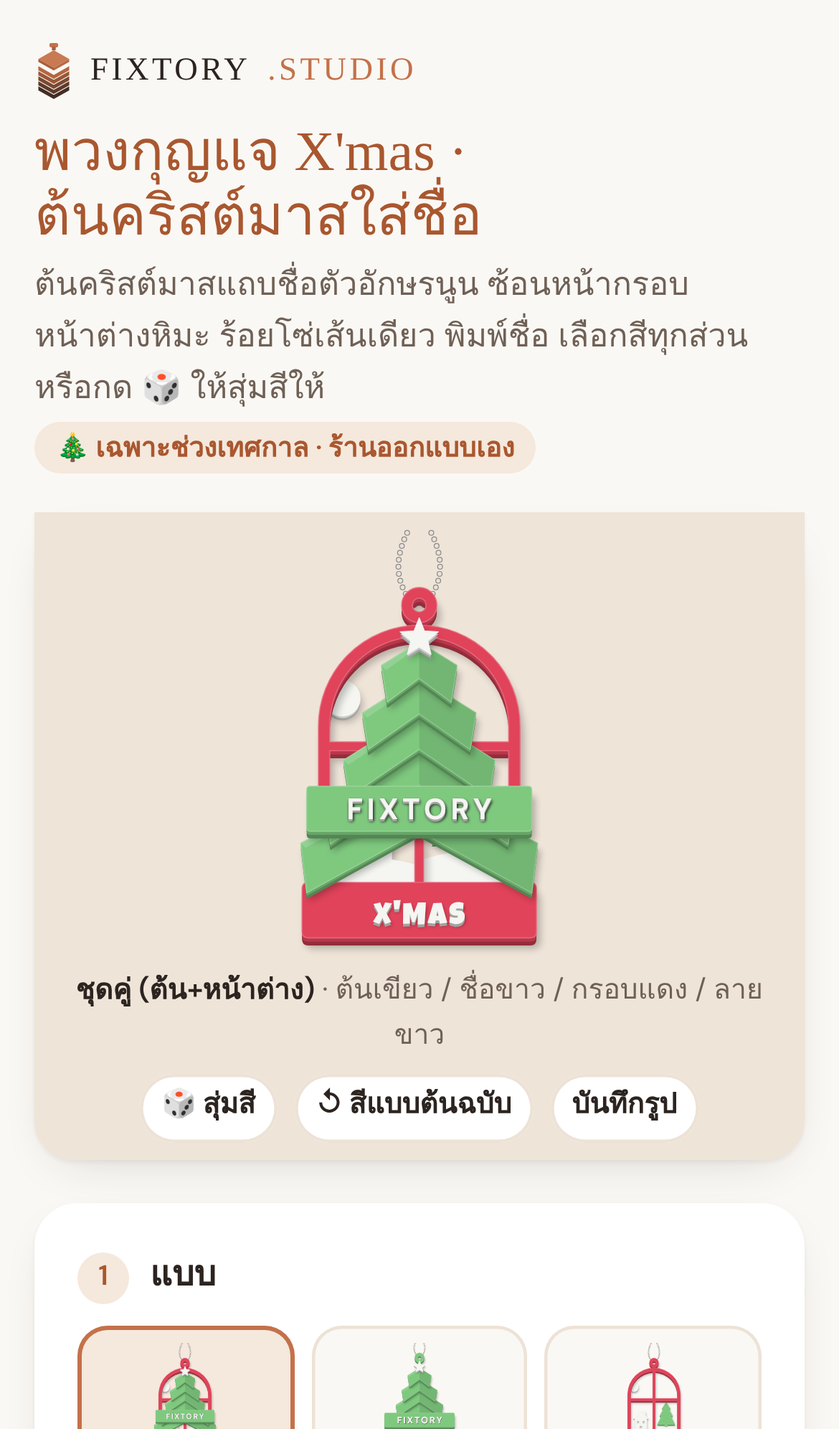
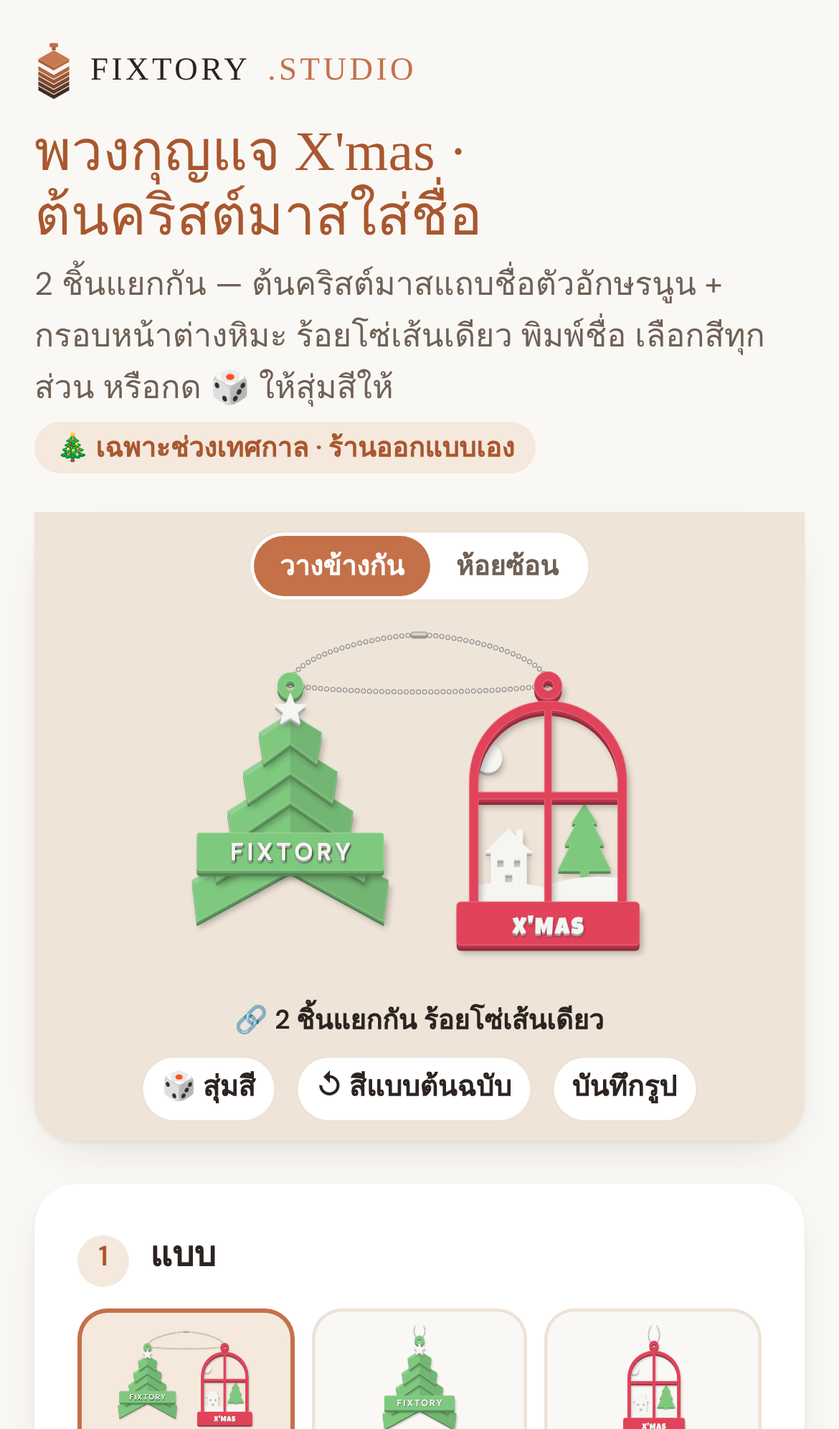
Fixtory Design: พวงกุญแจ X'mas แสดง 2 ชิ้นแยกกัน + สีหน้าต่างแยกจากต้น (xmasorn.html รอบ 2)
- ชุดคู่: พรีวิว "วางข้างกัน" (ต้นซ้าย หน้าต่างขวา ห่วงแยก ร้อยโซ่ไข่ปลาเส้นเดียว) เป็นค่าเริ่มต้น + ปุ่มสลับ "ห้อยซ้อน" (ต้นอยู่หน้า เห็นห่วง 2 อันบนโซ่แบบ cat/xmasorn-1.jpg)
- เพิ่มสี "ต้นไม้เล็กในหน้าต่าง" แยกจากสีต้น (ค่าเริ่มต้นเขียว) · รหัสใหม่ XM1.<แบบ>.<ต้น><ชื่อ><กรอบ><ลาย><ต้นเล็ก>.<ชื่อ> · อัปเดต xmEncode/xmParse/xmLabel ในบล็อก copied verbatim
- กล่องสี 2 กล่อง: ชิ้นที่ 1 ต้นคริสต์มาส (ต้น · ชื่อ+ดาว) / ชิ้นที่ 2 หน้าต่าง (กรอบ · ลาย · ต้นไม้เล็ก) · ข้อความใต้พรีวิว "2 ชิ้นแยกกัน ร้อยโซ่เส้นเดียว"
- บันทึกรูป PNG และรูปย่อตะกร้าตามมุมมองที่เลือก · ภาพหน้าจอใหม่ design_xmasorn/*.png

diff --git a/xmasorn.html b/xmasorn.html
@@ -57,6 +57,15 @@ h1 { margin: 6px 0 0; font-family: var(--f-display); font-weight: 400; font-size
 .pvbox { background: var(--stage); border-radius: 20px; box-shadow: var(--shadow); padding: 18px 12px 12px; display: flex; flex-direction: column; align-items: center; gap: 10px; min-height: 360px; justify-content: center; }
 #pv { width: 100%; display: flex; justify-content: center; }
 #pv svg { display: block; width: 100%; max-width: 400px; height: auto; }
+#pv.wide svg { max-width: 560px; }
+.viewsw { display: inline-flex; background: var(--surface); border-radius: 999px; padding: 3px; box-shadow: inset 0 0 0 1.5px var(--line); }
+.viewsw button { border: 0; background: none; border-radius: 999px; padding: 5px 14px; font-size: 13.5px; font-weight: 600; color: var(--muted); cursor: pointer; min-height: 32px; }
+.viewsw button[aria-pressed="true"] { background: var(--accent); color: var(--accent-ink); }
+.pvnote { font-size: 13.5px; font-weight: 600; color: var(--ink); text-align: center; }
+.piece { display: flex; flex-direction: column; gap: 10px; background: var(--bg); border-radius: 16px; padding: 12px 14px 14px; box-shadow: inset 0 0 0 1.5px var(--line); }
+.piece-t { display: flex; align-items: baseline; gap: 8px; flex-wrap: wrap; font-weight: 600; font-size: 15px; }
+.piece-t small { font-weight: 500; color: var(--muted); font-size: 12.5px; }
+.pno { font-size: 12px; font-weight: 600; color: var(--accent-ink); background: var(--accent); border-radius: 999px; padding: 1px 9px; }
 .pvcap { font-size: 13px; color: var(--muted); text-align: center; font-variant-numeric: tabular-nums; }
 .pvcap b { color: var(--ink); font-weight: 600; }
 .simnote { font-size: 12px; color: var(--muted); }
@@ -116,7 +125,11 @@ footer { text-align: center; color: var(--muted); font-size: 13px; padding-top: 
 @media (max-width: 860px) {
   .viz { position: sticky; top: 0; z-index: 5; }
   .pvbox { min-height: 0; padding: 8px; border-radius: 0 0 18px 18px; gap: 6px; }
-  #pv svg { max-height: 30vh; width: auto; }
+  #pv svg { max-height: 30vh; width: auto; max-width: 100%; }
+  #pv.wide svg { max-height: 26vh; }
+  .pvcap { display: none; }
+  .viewsw button { min-height: 28px; padding: 3px 12px; font-size: 12.5px; }
+  .pvnote { font-size: 12.5px; }
   .pvtools .btn { min-height: 32px; padding: 4px 10px; font-size: 13px; }
   .simnote { display: none; }
 }
@@ -129,13 +142,15 @@ footer { text-align: center; color: var(--muted); font-size: 13px; padding-top: 
   <header>
     <span class="brand"><svg viewBox="0 0 40 58" aria-hidden="true"><rect x="15.5" y="0" width="9" height="4.5" rx="1.6" fill="#C4714A"/><rect x="18" y="4" width="4" height="3.5" fill="#A85E3B"/><path d="M20 7.5L36 16.5L20 25.5L4 16.5Z" fill="#C97A53"/><path d="M4 16.5L20 25.5V28.5L4 19.5Z" fill="#A85E3B"/><path d="M36 16.5L20 25.5V28.5L36 19.5Z" fill="#B66A43"/><path d="M4 24.0L20 33.0L36 24.0V28.2L20 37.2L4 28.2Z" fill="#B4663F"/><path d="M4 29.2L20 38.2L36 29.2V33.4L20 42.4L4 33.4Z" fill="#9A5737"/><path d="M4 34.4L20 43.4L36 34.4V38.6L20 47.6L4 38.6Z" fill="#7C4830"/><path d="M4 39.6L20 48.6L36 39.6V43.8L20 52.8L4 43.8Z" fill="#5E3A2A"/><path d="M4 44.8L20 53.8L36 44.8V49.0L20 58.0L4 49.0Z" fill="#432D24"/></svg>FIXTORY<em>.STUDIO</em></span>
     <h1>พวงกุญแจ X'mas · ต้นคริสต์มาสใส่ชื่อ</h1>
-    <p class="lede">ต้นคริสต์มาสแถบชื่อตัวอักษรนูน ซ้อนหน้ากรอบหน้าต่างหิมะ ร้อยโซ่เส้นเดียว พิมพ์ชื่อ เลือกสีทุกส่วน หรือกด 🎲 ให้สุ่มสีให้</p>
+    <p class="lede">2 ชิ้นแยกกัน — ต้นคริสต์มาสแถบชื่อตัวอักษรนูน + กรอบหน้าต่างหิมะ ร้อยโซ่เส้นเดียว พิมพ์ชื่อ เลือกสีทุกส่วน หรือกด 🎲 ให้สุ่มสีให้</p>
     <span class="tag">🎄 เฉพาะช่วงเทศกาล · ร้านออกแบบเอง</span>
   </header>
   <div class="app">
     <section class="viz" aria-label="ภาพตัวอย่าง">
       <div class="pvbox">
+        <div class="viewsw" id="viewSw" role="group" aria-label="มุมมองชุดคู่"><button type="button" data-v="side" aria-pressed="true">วางข้างกัน</button><button type="button" data-v="hang" aria-pressed="false">ห้อยซ้อน</button></div>
         <div id="pv"></div>
+        <div class="pvnote" id="pvnote">🔗 2 ชิ้นแยกกัน ร้อยโซ่เส้นเดียว</div>
         <div class="pvcap" id="pvcap"></div>
         <div class="simnote">ภาพจำลอง ชิ้นจริงพิมพ์นูนหลายชั้น สีจริงอาจต่างเล็กน้อย</div>
         <div class="pvtools">
@@ -159,10 +174,17 @@ footer { text-align: center; color: var(--muted); font-size: 13px; padding-top: 
       <div class="step">
         <div class="step-t"><i id="colNo">3</i>สี <span class="hint">กดชุดสีแนะนำ หรือเลือกเองทีละส่วน</span></div>
         <div class="pairs" id="pairs"></div>
-        <div id="rowTree"><div class="lbl" id="treeLbl">สีต้น</div><div class="dots" id="treeDots"></div></div>
-        <div id="rowName"><div class="lbl">สีชื่อ + ดาว <small id="nameName"></small></div><div class="dots" id="nameDots"></div></div>
-        <div id="rowFrame"><div class="lbl">สีกรอบหน้าต่าง <small id="frameName"></small></div><div class="dots" id="frameDots"></div></div>
-        <div id="rowPat"><div class="lbl">สีลายในหน้าต่าง <small id="patName"></small></div><div class="dots" id="patDots"></div></div>
+        <div class="piece" id="boxTree">
+          <div class="piece-t"><span class="pno">ชิ้นที่ 1</span>ต้นคริสต์มาส <small>ต้น · ชื่อ+ดาว</small></div>
+          <div><div class="lbl">สีต้น <small id="treeName"></small></div><div class="dots" id="treeDots"></div></div>
+          <div><div class="lbl">สีชื่อ + ดาว <small id="nameName"></small></div><div class="dots" id="nameDots"></div></div>
+        </div>
+        <div class="piece" id="boxWin">
+          <div class="piece-t"><span class="pno" id="winNo">ชิ้นที่ 2</span>หน้าต่าง <small>กรอบ · ลาย · ต้นไม้เล็ก</small></div>
+          <div><div class="lbl">สีกรอบหน้าต่าง <small id="frameName"></small></div><div class="dots" id="frameDots"></div></div>
+          <div><div class="lbl">สีลาย <small id="patName"></small></div><div class="dots" id="patDots"></div></div>
+          <div><div class="lbl">สีต้นไม้เล็กในหน้าต่าง <small id="miniName"></small></div><div class="dots" id="miniDots"></div></div>
+        </div>
       </div>
     </section>
 
@@ -193,23 +215,24 @@ const KC_HEX={"ฟ้า":"#7FC4E0","ชมพู":"#EFA9C6","ม่วง":"#B7
 const XM_COLORS=Object.keys(KC_HEX);   // index (base 36, 1 ตัว) ใช้ในรหัส XM1
 const XM_TYPES={s:'ชุดคู่ (ต้น+หน้าต่าง)',t:'ต้นใส่ชื่อ',w:'หน้าต่าง'};
 const XM_BASE={s:199,t:129,w:99};
-const XM_PARTS={s:'tnfp',t:'tn',w:'tfp'};   // ส่วนที่มีในแต่ละแบบ: t=ต้น n=ชื่อ+ดาว f=กรอบหน้าต่าง p=ลายในหน้าต่าง (ต้นไม้เล็กในหน้าต่างใช้สีต้น)
+const XM_PARTS={s:'tnfpm',t:'tn',w:'fpm'};   // ส่วนที่มีในแต่ละแบบ — ชิ้นที่ 1 ต้น: t=ต้น n=ชื่อ+ดาว · ชิ้นที่ 2 หน้าต่าง: f=กรอบ p=ลาย (บ้าน/หิมะ/พระจันทร์/X'MAS) m=ต้นไม้เล็กในหน้าต่าง
+const XM_KEYS={t:'tree',n:'name',f:'frame',p:'pat',m:'mini'};
 const XM_MAXLEN=9,XM_MAXQTY=9;   // ชื่อ ≤9 ตัว · ≤9 ชิ้น/ออเดอร์ (10+ ทักแชต)
 const XM_CHAT='https://www.facebook.com/share/1CoEGCMttn/';
-// รหัสแบบ: XM1.<s|t|w>.<สีต้น><สีชื่อ><สีกรอบ><สีลาย>.<ชื่อ>  สี = index b36 ใน KC_HEX, '-' ถ้าแบบนั้นไม่มีส่วนนั้น · ชื่อ encodeURIComponent ('-' สำหรับหน้าต่างอย่างเดียว)
-function xmEncode(d){const P=XM_PARTS[d.t],c=(k,v)=>P.indexOf(k)<0?'-':XM_COLORS.indexOf(v).toString(36);return 'XM1.'+d.t+'.'+c('t',d.tree)+c('n',d.name)+c('f',d.frame)+c('p',d.pat)+'.'+(P.indexOf('n')<0?'-':encodeURIComponent(d.text))}
+// รหัสแบบ: XM1.<s|t|w>.<สีต้น><สีชื่อ><สีกรอบ><สีลาย><สีต้นไม้เล็ก>.<ชื่อ>  สี = index b36 ใน KC_HEX, '-' ถ้าแบบนั้นไม่มีส่วนนั้น · ชื่อ encodeURIComponent ('-' สำหรับหน้าต่างอย่างเดียว)
+function xmEncode(d){const P=XM_PARTS[d.t];let c='';for(const k of 'tnfpm')c+=P.indexOf(k)<0?'-':XM_COLORS.indexOf(d[XM_KEYS[k]]).toString(36);return 'XM1.'+d.t+'.'+c+'.'+(P.indexOf('n')<0?'-':encodeURIComponent(d.text))}
 function xmParse(code){
-  const m=/^XM1\.([stw])\.([0-9a-z-])([0-9a-z-])([0-9a-z-])([0-9a-z-])\.(.+)$/.exec(String(code||'').trim());if(!m)return null;
-  const t=m[1],P=XM_PARTS[t],ks='tnfp',d={t,tree:null,name:null,frame:null,pat:null,text:''},keys={t:'tree',n:'name',f:'frame',p:'pat'};
-  for(let i=0;i<4;i++){const k=ks[i],ch=m[i+2],need=P.indexOf(k)>=0;if(need!==(ch!=='-'))return null;if(need){const ix=parseInt(ch,36);if(!(ix<XM_COLORS.length))return null;d[keys[k]]=XM_COLORS[ix]}}
+  const m=/^XM1\.([stw])\.([0-9a-z-]{5})\.(.+)$/.exec(String(code||'').trim());if(!m)return null;
+  const t=m[1],P=XM_PARTS[t],d={t,tree:null,name:null,frame:null,pat:null,mini:null,text:''};
+  for(let i=0;i<5;i++){const k='tnfpm'[i],ch=m[2][i],need=P.indexOf(k)>=0;if(need!==(ch!=='-'))return null;if(need){const ix=parseInt(ch,36);if(!(ix<XM_COLORS.length))return null;d[XM_KEYS[k]]=XM_COLORS[ix]}}
   if(d.name&&d.name===d.tree)return null;if(d.pat&&d.pat===d.frame)return null;
-  if(P.indexOf('n')>=0){let s;try{s=decodeURIComponent(m[6])}catch(e){return null}if(!/^[A-Z0-9]+$/.test(s)||s.length>XM_MAXLEN)return null;d.text=s}else if(m[6]!=='-')return null;
+  if(P.indexOf('n')>=0){let s;try{s=decodeURIComponent(m[3])}catch(e){return null}if(!/^[A-Z0-9]+$/.test(s)||s.length>XM_MAXLEN)return null;d.text=s}else if(m[3]!=='-')return null;
   return d;
 }
 function xmUnit(t){return XM_BASE[t]||0}
 // ราคารวม: items=[{t,qty}] (ยังไม่มีส่วนลดจำนวน)
 function xmPrice(items){return items.reduce((a,x)=>a+xmUnit(x.t)*(x.qty||0),0)}
-function xmLabel(d){const P=XM_PARTS[d.t],o=["พวงกุญแจ X'mas "+XM_TYPES[d.t]];if(P.indexOf('n')>=0)o.push('ชื่อ '+d.text);const c=[];c.push('ต้น'+d.tree);if(P.indexOf('n')>=0)c.push('ชื่อ/ดาว'+d.name);if(P.indexOf('f')>=0)c.push('กรอบ'+d.frame+' ลาย'+d.pat);o.push(c.join(' '));return o.join(' · ')}
+function xmLabel(d){const P=XM_PARTS[d.t],o=["พวงกุญแจ X'mas "+XM_TYPES[d.t]];if(P.indexOf('n')>=0)o.push('ชื่อ '+d.text);const c=[];if(P.indexOf('t')>=0)c.push('ต้น'+d.tree+' ชื่อ/ดาว'+d.name);if(P.indexOf('f')>=0)c.push('หน้าต่าง: กรอบ'+d.frame+' ลาย'+d.pat+' ต้นเล็ก'+d.mini);o.push(c.join(' · '));return o.join(' · ')}
   // ---- end copy ----
 
   // ---------- drawing: a list of shapes (each in its own local frame g={x,y,s}) → SVG (preview) or canvas (saved picture) ----------
@@ -243,7 +266,7 @@ function xmLabel(d){const P=XM_PARTS[d.t],o=["พวงกุญแจ X'mas "+X
 
   // ---- piece B: arched window, 4 open panes, moon / house / snow / small tree, X'MAS on the base (local frame ≈ x ±92, y −152…128) ----
   function windowPiece(ops, g, c, ringOnly) {
-    var F = KC_HEX[c.frame], P = KC_HEX[c.pat], T = KC_HEX[c.tree];
+    var F = KC_HEX[c.frame], P = KC_HEX[c.pat], T = KC_HEX[c.mini];   // window colours belong to the window piece only
     var ring = [{ d: circ(0, -136, 14) + circ(0, -136, 5.5), rule: 'evenodd' }];
     if (ringOnly) { raised(ops, g, ring, F, 5); return; }
     var yA = (-40 - Math.sqrt(71 * 71 - 3.5 * 3.5)).toFixed(2);
@@ -253,7 +276,7 @@ function xmLabel(d){const P=XM_PARTS[d.t],o=["พวงกุญแจ X'mas "+X
       'M-71 -20.5H-3.5V87H-71Z' + 'M3.5 -20.5H71V87H3.5Z';
     // scene parts behind the frame bars (they sit inside the open panes)
     raised(ops, g, [{ d: circ(-61, -62, 14) }], P, 3.5);   // moon
-    raised(ops, g, [{ d: 'M37 -16L50 4L45 4L57 26L51 26L64 52L41 52L41 66L33 66L33 52L10 52L23 26L17 26L29 4L24 4Z' }], T, 3.5);   // small tree (tree colour)
+    raised(ops, g, [{ d: 'M37 -16L50 4L45 4L57 26L51 26L64 52L41 52L41 66L33 66L33 52L10 52L23 26L17 26L29 4L24 4Z' }], T, 3.5);   // small tree (its own colour)
     raised(ops, g, [{ d: 'M-64 34L-40 10L-32 18.7V11H-26V25.3L-16 34H-22V74H-58V34Z' + 'M-52 41h7v8h-7Z' + 'M-35 41h7v8h-7Z' + 'M-44 56h8v18h-8Z', rule: 'evenodd' }], P, 3.5);   // house
     raised(ops, g, [{ d: 'M-71 68Q-40 60 -3.5 70V87H-71Z' }, { d: 'M3.5 66Q34 56 71 60V87H3.5Z' }], P, 3.5);   // snow
     raised(ops, g, ring.concat([{ d: frame, rule: 'evenodd' }, { d: rrect(-93, 84, 93, 128, 5) }]), F, 6);
@@ -278,28 +301,42 @@ function xmLabel(d){const P=XM_PARTS[d.t],o=["พวงกุญแจ X'mas "+X
     sp = spaced(s, NAME_FAM, '700', size, ls, 0, 41 + size * 0.36);
     raisedText(ops, g, Object.assign(sp, { op: text ? 1 : 0.55 }), N, 1.8);
   }
-  function chain(ops, x, y) {   // ball chain loop going up out of the picture
-    var d = 'M' + (x - 4) + ' ' + y + 'C' + (x - 26) + ' ' + (y - 24) + ' ' + (x - 14) + ' ' + (y - 50) + ' ' + (x - 6) + ' -4' + 'M' + (x + 4) + ' ' + y + 'C' + (x + 26) + ' ' + (y - 24) + ' ' + (x + 14) + ' ' + (y - 50) + ' ' + (x + 6) + ' -4';
+  function chainPath(ops, d) {   // ball chain: grey balls with a light highlight
     ops.push({ k: 'p', d: d, fill: 'none', stroke: '#8E8A84', sw: 4.6, dash: [0, 5.6] });
     ops.push({ k: 'p', d: d, fill: 'none', stroke: '#E6E3DE', sw: 3.2, dash: [0, 5.6] });
   }
-  // whole picture in a 300×340 box; d={t,tree,name,frame,pat,text}
-  function scene(d) {
+  function chain(ops, x, y) {   // loop going up out of the picture through ring(s) at (x, y)
+    chainPath(ops, 'M' + (x - 4) + ' ' + y + 'C' + (x - 26) + ' ' + (y - 24) + ' ' + (x - 14) + ' ' + (y - 50) + ' ' + (x - 6) + ' -4' + 'M' + (x + 4) + ' ' + y + 'C' + (x + 26) + ' ' + (y - 24) + ' ' + (x + 14) + ' ' + (y - 50) + ' ' + (x + 6) + ' -4');
+  }
+  function chainTwo(ops, x1, x2, y, cy) {   // ONE chain loop threaded through both rings (pieces lying side by side) + its clasp
+    var cx = (x1 + x2) / 2;
+    chainPath(ops, 'M' + x1 + ' ' + y + 'C' + x1 + ' ' + (y - 30) + ' ' + (cx - 30) + ' ' + cy + ' ' + (cx - 4) + ' ' + cy +
+      'M' + (cx + 4) + ' ' + cy + 'C' + (cx + 30) + ' ' + cy + ' ' + x2 + ' ' + (y - 30) + ' ' + x2 + ' ' + y +
+      'M' + x1 + ' ' + y + 'C' + (x1 + 60) + ' ' + (y + 8) + ' ' + (x2 - 60) + ' ' + (y + 8) + ' ' + x2 + ' ' + y);
+    ops.push({ k: 'p', d: rrect(cx - 8, cy - 3.2, cx + 8, cy + 3.2, 3.2), fill: '#9C978F' });
+    ops.push({ k: 'p', d: rrect(cx - 7, cy - 2.4, cx + 7, cy + 0.4, 1.6), fill: '#E6E3DE', op: 0.8 });
+  }
+  // whole picture → { ops, w, h }; d={t,tree,name,frame,pat,mini,text}; view 'side' (pieces next to each other) | 'hang' (tree hangs in front of the window)
+  function scene(d, view) {
     var ops = [];
-    if (d.t === 'w') { var gw = { x: 150, y: 196, s: 1 }; chain(ops, 150, 196 - 136); windowPiece(ops, gw, d); }
-    else if (d.t === 't') { var gt = { x: 150, y: 188, s: 1.12 }; chain(ops, 150, 188 - 128 * 1.12); treePiece(ops, gt, d, d.text, {}); }
-    else {
-      var g1 = { x: 150, y: 196, s: 1 }, g2 = { x: 150, y: 183, s: 0.94 };
-      chain(ops, 150, 196 - 136);
-      windowPiece(ops, g1, d);
-      treePiece(ops, g2, d, d.text, { noRing: true });   // tree hangs on the same chain, its ring hidden behind the star
+    if (d.t === 'w') { chain(ops, 150, 196 - 136); windowPiece(ops, { x: 150, y: 196, s: 1 }, d); return { ops: ops, w: 300, h: 340 }; }
+    if (d.t === 't') { chain(ops, 150, 188 - 128 * 1.12); treePiece(ops, { x: 150, y: 188, s: 1.12 }, d, d.text, {}); return { ops: ops, w: 300, h: 340 }; }
+    if (view === 'hang') {   // like cat/xmasorn-1.jpg: two rings on the chain, the tree's ring just in front of the window's
+      chain(ops, 148, 61);
+      windowPiece(ops, { x: 150, y: 196, s: 1 }, d);
+      treePiece(ops, { x: 145, y: 183.5, s: 0.94 }, d, d.text, {});
+      return { ops: ops, w: 300, h: 340 };
     }
-    return ops;
+    var s = 0.9, yr = 64, x1 = 122, x2 = 358;   // two separate prints side by side, both rings at the same height
+    chainTwo(ops, x1, x2, yr, 18);
+    treePiece(ops, { x: x1, y: yr + 128 * s, s: s }, d, d.text, {});
+    windowPiece(ops, { x: x2, y: yr + 136 * s, s: s }, d);
+    return { ops: ops, w: 480, h: 340 };
   }
   var esc = function (s) { return String(s).replace(/&/g, '&amp;').replace(/</g, '&lt;').replace(/"/g, '&quot;'); };
   function gT(o) { return o.g ? ' transform="translate(' + o.g.x + ' ' + o.g.y + ') scale(' + o.g.s + ')"' : ''; }
-  function toSVG(ops, w, h, label) {
-    var s = '<svg xmlns="http://www.w3.org/2000/svg" viewBox="0 0 300 340" width="' + w + '" height="' + h + '" role="img" aria-label="' + esc(label || "ตัวอย่างพวงกุญแจ X'mas") + '"><defs><filter id="xmb1" x="-20%" y="-20%" width="140%" height="140%"><feGaussianBlur stdDeviation="1.2"/></filter><filter id="xmb3" x="-20%" y="-20%" width="140%" height="140%"><feGaussianBlur stdDeviation="3"/></filter></defs>';
+  function toSVG(sc, w, h, label) {
+    var ops = sc.ops, s = '<svg xmlns="http://www.w3.org/2000/svg" viewBox="0 0 ' + sc.w + ' ' + sc.h + '" width="' + w + '" height="' + h + '" role="img" aria-label="' + esc(label || "ตัวอย่างพวงกุญแจ X'mas") + '"><defs><filter id="xmb1" x="-20%" y="-20%" width="140%" height="140%"><feGaussianBlur stdDeviation="1.2"/></filter><filter id="xmb3" x="-20%" y="-20%" width="140%" height="140%"><feGaussianBlur stdDeviation="3"/></filter></defs>';
     ops.forEach(function (o) {
       var op = o.op != null ? ' opacity="' + o.op + '"' : '', bl = o.blur ? ' filter="url(#' + (o.blur > 2 ? 'xmb3' : 'xmb1') + ')"' : '';
       var inner;
@@ -313,8 +350,8 @@ function xmLabel(d){const P=XM_PARTS[d.t],o=["พวงกุญแจ X'mas "+X
     });
     return s + '</svg>';
   }
-  function toCanvas(ops, W, bg) {
-    var H = Math.round(W * 340 / 300), c = document.createElement('canvas'); c.width = W; c.height = H; var x = c.getContext('2d'), k = W / 300;
+  function toCanvas(sc, W, bg) {
+    var ops = sc.ops, H = Math.round(W * sc.h / sc.w), c = document.createElement('canvas'); c.width = W; c.height = H; var x = c.getContext('2d'), k = W / sc.w;
     x.fillStyle = bg; x.fillRect(0, 0, W, H);
     ops.forEach(function (o) {
       x.save(); x.setTransform(k, 0, 0, k, 0, 0);
@@ -335,16 +372,17 @@ function xmLabel(d){const P=XM_PARTS[d.t],o=["พวงกุญแจ X'mas "+X
   }
 
   // ---------- state ----------
-  var DEF = { tree: 'เขียว', name: 'ขาว', frame: 'แดง', pat: 'ขาว' };   // like the printed piece
+  var DEF = { tree: 'เขียว', name: 'ขาว', frame: 'แดง', pat: 'ขาว', mini: 'เขียว' };   // like the printed piece
   var PAIRS = [
-    { lbl: 'คลาสสิก แดง-เขียว', tree: 'เขียว', name: 'ขาว', frame: 'แดง', pat: 'ขาว' },
-    { lbl: 'ฟ้าหิมะ', tree: 'ฟ้า', name: 'ขาว', frame: 'น้ำเงิน', pat: 'ขาว' },
-    { lbl: 'ทอง-ขาว', tree: 'เหลือง', name: 'น้ำตาล', frame: 'ขาว', pat: 'เหลือง' },
-    { lbl: 'ชมพูหวาน', tree: 'มิ้นท์', name: 'ชมพูอมแดง', frame: 'ชมพู', pat: 'ขาว' },
-    { lbl: 'คืนเหน็บหนาว', tree: 'เขียวอมฟ้า', name: 'เหลือง', frame: 'น้ำเงิน', pat: 'เหลือง' }
+    { lbl: 'คลาสสิก แดง-เขียว', tree: 'เขียว', name: 'ขาว', frame: 'แดง', pat: 'ขาว', mini: 'เขียว' },
+    { lbl: 'ฟ้าหิมะ', tree: 'ฟ้า', name: 'ขาว', frame: 'น้ำเงิน', pat: 'ขาว', mini: 'ฟ้า' },
+    { lbl: 'ทอง-ขาว', tree: 'เหลือง', name: 'น้ำตาล', frame: 'ขาว', pat: 'เหลือง', mini: 'เหลือง' },
+    { lbl: 'ชมพูหวาน', tree: 'มิ้นท์', name: 'ชมพูอมแดง', frame: 'ชมพู', pat: 'ขาว', mini: 'มิ้นท์' },
+    { lbl: 'คืนเหน็บหนาว', tree: 'เขียวอมฟ้า', name: 'เหลือง', frame: 'น้ำเงิน', pat: 'เหลือง', mini: 'เขียวอมฟ้า' }
   ];
-  var d = Object.assign({ t: 's', text: 'FIXTORY' }, DEF), qty = 1;
-  function adopt(p) { if (!p) return false; d = Object.assign({}, d, { t: p.t }); ['tree', 'name', 'frame', 'pat'].forEach(function (k) { if (p[k]) d[k] = p[k]; }); if (p.text) d.text = p.text; return true; }
+  var d = Object.assign({ t: 's', text: 'FIXTORY' }, DEF), qty = 1, view = 'side';
+  try { if (localStorage.getItem('fxXmView') === 'hang') view = 'hang'; } catch (e) {}
+  function adopt(p) { if (!p) return false; d = Object.assign({}, d, { t: p.t }); ['tree', 'name', 'frame', 'pat', 'mini'].forEach(function (k) { if (p[k]) d[k] = p[k]; }); if (p.text) d.text = p.text; return true; }
   try { var q0 = new URLSearchParams(location.search).get('xm'); if (!adopt(xmParse(q0))) adopt(xmParse(localStorage.getItem('fxXmDraft') || '')); } catch (e) {}
   var SALE = (function () { try { return new URLSearchParams(location.search).get('sale') || ''; } catch (e) { return ''; } })();
   var ORDER_URL = (/fixtory-studio\.pages\.dev$|^localhost$/.test(location.hostname) ? 'shop-order.html' : 'https://fixtory-studio.pages.dev/shop-order.html') + '?p=xmasorn';
@@ -359,8 +397,8 @@ function xmLabel(d){const P=XM_PARTS[d.t],o=["พวงกุญแจ X'mas "+X
   });
 
   function pairSvg(p) {
-    var T = KC_HEX[p.tree], N = KC_HEX[p.name], F = KC_HEX[p.frame], P = KC_HEX[p.pat];
-    return '<svg viewBox="0 0 48 48" width="40" height="40" aria-hidden="true"><path d="M7 44V20A17 17 0 0 1 41 20V44Z" fill="' + F + '" stroke="' + shade(F, -0.3) + '"/><path d="M11 40V21A13 13 0 0 1 37 21V40Z" fill="' + shade(F, 0.55) + '"/><circle cx="16" cy="18" r="3.2" fill="' + P + '"/><path d="M11 40V35Q24 32 37 36V40Z" fill="' + P + '"/><path d="M24 6L36 34H12Z" fill="' + T + '" stroke="' + shade(T, -0.3) + '"/><rect x="9" y="25" width="30" height="7" rx="1" fill="' + T + '" stroke="' + shade(T, -0.3) + '" stroke-width=".8"/><rect x="14" y="27.6" width="20" height="1.8" rx=".9" fill="' + N + '"/><path d="' + star(24, 7, 4.2, 1.9) + '" fill="' + N + '" stroke="' + shade(N, -0.3) + '" stroke-width=".6"/></svg>';
+    var T = KC_HEX[p.tree], N = KC_HEX[p.name], F = KC_HEX[p.frame], P = KC_HEX[p.pat], M = KC_HEX[p.mini];
+    return '<svg viewBox="0 0 48 48" width="40" height="40" aria-hidden="true"><path d="M7 44V20A17 17 0 0 1 41 20V44Z" fill="' + F + '" stroke="' + shade(F, -0.3) + '"/><path d="M11 40V21A13 13 0 0 1 37 21V40Z" fill="' + shade(F, 0.55) + '"/><circle cx="16" cy="18" r="3.2" fill="' + P + '"/><path d="M11 40V35Q24 32 37 36V40Z" fill="' + P + '"/><path d="M33 22L37 31H29Z" fill="' + M + '"/><path d="M24 6L36 34H12Z" fill="' + T + '" stroke="' + shade(T, -0.3) + '"/><rect x="9" y="25" width="30" height="7" rx="1" fill="' + T + '" stroke="' + shade(T, -0.3) + '" stroke-width=".8"/><rect x="14" y="27.6" width="20" height="1.8" rx=".9" fill="' + N + '"/><path d="' + star(24, 7, 4.2, 1.9) + '" fill="' + N + '" stroke="' + shade(N, -0.3) + '" stroke-width=".6"/></svg>';
   }
   function dotRow(box, key, label, blockKey) {
     box.textContent = '';
@@ -375,27 +413,30 @@ function xmLabel(d){const P=XM_PARTS[d.t],o=["พวงกุญแจ X'mas "+X
     if (d.name === d.tree) d.name = d.tree === 'ขาว' ? 'ดำ' : 'ขาว';
     if (d.pat === d.frame) d.pat = d.frame === 'ขาว' ? 'แดง' : 'ขาว';
     // preview
-    var label = "ตัวอย่างพวงกุญแจ X'mas " + XM_TYPES[d.t] + (hasName ? ' ชื่อ ' + (d.text || '-') : '') + ' ต้น' + d.tree + (hasName ? ' ชื่อ' + d.name : '') + (hasWin ? ' กรอบ' + d.frame + ' ลาย' + d.pat : '');
-    $('pv').innerHTML = toSVG(scene(d), 300, 340, label);
-    $('pvcap').innerHTML = '<b>' + XM_TYPES[d.t] + '</b> · ต้น' + d.tree + (hasName ? ' / ชื่อ' + d.name : '') + (hasWin ? ' / กรอบ' + d.frame + ' / ลาย' + d.pat : '') + (hasName && !d.text ? ' · (ตัวอย่าง NAME)' : '');
+    var both = d.t === 's', label = "ตัวอย่างพวงกุญแจ X'mas " + XM_TYPES[d.t] + (both ? (view === 'hang' ? ' แบบห้อยซ้อน' : ' 2 ชิ้นวางข้างกัน') : '') + (hasName ? ' ชื่อ ' + (d.text || '-') + ' ต้น' + d.tree + ' ชื่อ' + d.name : '') + (hasWin ? ' กรอบ' + d.frame + ' ลาย' + d.pat + ' ต้นเล็ก' + d.mini : '');
+    var sc = scene(d, view);
+    $('pv').innerHTML = toSVG(sc, sc.w, sc.h, label); $('pv').classList.toggle('wide', sc.w > 300);
+    $('viewSw').hidden = !both; $('pvnote').hidden = !both;
+    $('viewSw').querySelectorAll('button').forEach(function (b) { b.setAttribute('aria-pressed', String(b.dataset.v === view)); });
+    $('pvcap').innerHTML = '<b>' + XM_TYPES[d.t] + '</b>' + (hasName ? ' · ต้น' + d.tree + ' / ชื่อ' + d.name : '') + (hasWin ? ' · หน้าต่าง: กรอบ' + d.frame + ' / ลาย' + d.pat + ' / ต้นเล็ก' + d.mini : '') + (hasName && !d.text ? ' · (ตัวอย่าง NAME)' : '');
     // type
     var ty = $('types'); ty.textContent = '';
     ['s', 't', 'w'].forEach(function (t) {
-      var mini = toSVG(scene(Object.assign({}, d, { t: t, text: d.text || 'NAME' })), 46, 52, '');
-      ty.append(el('button', { type: 'button', class: 'opt', 'aria-pressed': String(d.t === t), onclick: function () { d.t = t; render(); }, html: mini.replace('role="img"', 'aria-hidden="true"') + '<b>' + (t === 's' ? 'ชุดคู่' : t === 't' ? 'ต้นใส่ชื่อ' : 'หน้าต่าง') + '</b><span>' + fmt(XM_BASE[t]) + (t === 's' ? ' · ต้น+หน้าต่าง' : t === 't' ? ' · อย่างเดียว' : ' · ไม่มีชื่อ') + '</span>' }));
+      var ms = scene(Object.assign({}, d, { t: t, text: d.text || 'NAME' }), 'side'), mini = toSVG(ms, Math.round(52 * ms.w / ms.h), 52, '');
+      ty.append(el('button', { type: 'button', class: 'opt', 'aria-pressed': String(d.t === t), onclick: function () { d.t = t; render(); }, html: mini.replace('role="img"', 'aria-hidden="true"') + '<b>' + (t === 's' ? 'ชุดคู่' : t === 't' ? 'ต้นใส่ชื่อ' : 'หน้าต่าง') + '</b><span>' + fmt(XM_BASE[t]) + (t === 's' ? ' · 2 ชิ้น' : t === 't' ? ' · อย่างเดียว' : ' · ไม่มีชื่อ') + '</span>' }));
     });
     $('nameStep').hidden = !hasName; $('colNo').textContent = hasName ? '3' : '2';
     $('cn').textContent = d.text.length + '/' + XM_MAXLEN;
-    // colours
+    // colours: piece 1 (tree) and piece 2 (window) in their own boxes
     var pr = $('pairs'); pr.textContent = '';
-    PAIRS.forEach(function (p) { pr.append(el('button', { type: 'button', class: 'pair', 'aria-pressed': String(d.tree === p.tree && (!hasName || d.name === p.name) && (!hasWin || (d.frame === p.frame && d.pat === p.pat))), onclick: function () { d.tree = p.tree; d.name = p.name; d.frame = p.frame; d.pat = p.pat; render(); }, html: pairSvg(p) + '<span>' + p.lbl + '</span>' })); });
-    $('treeLbl').innerHTML = (d.t === 'w' ? 'สีต้นไม้เล็กในหน้าต่าง' : 'สีต้น') + ' <small>' + d.tree + (d.t === 's' ? ' · ต้นไม้เล็กในหน้าต่างสีเดียวกัน' : '') + '</small>';
-    $('nameName').textContent = d.name; $('frameName').textContent = d.frame; $('patName').textContent = d.pat + ' · บ้าน หิมะ พระจันทร์ X\'MAS';
-    $('rowName').hidden = !hasName; $('rowFrame').hidden = !hasWin; $('rowPat').hidden = !hasWin;
-    dotRow($('treeDots'), 'tree', 'ต้นสี', hasName ? 'name' : null);
+    PAIRS.forEach(function (p) { pr.append(el('button', { type: 'button', class: 'pair', 'aria-pressed': String((!hasName || (d.tree === p.tree && d.name === p.name)) && (!hasWin || (d.frame === p.frame && d.pat === p.pat && d.mini === p.mini))), onclick: function () { ['tree', 'name', 'frame', 'pat', 'mini'].forEach(function (k) { d[k] = p[k]; }); render(); }, html: pairSvg(p) + '<span>' + p.lbl + '</span>' })); });
+    $('boxTree').hidden = !hasName; $('boxWin').hidden = !hasWin; $('winNo').hidden = !both;
+    $('treeName').textContent = d.tree; $('nameName').textContent = d.name; $('frameName').textContent = d.frame; $('patName').textContent = d.pat + ' · บ้าน หิมะ พระจันทร์ X\'MAS'; $('miniName').textContent = d.mini;
+    dotRow($('treeDots'), 'tree', 'ต้นสี', 'name');
     dotRow($('nameDots'), 'name', 'ชื่อและดาวสี', 'tree');
     dotRow($('frameDots'), 'frame', 'กรอบหน้าต่างสี', 'pat');
     dotRow($('patDots'), 'pat', 'ลายในหน้าต่างสี', 'frame');
+    dotRow($('miniDots'), 'mini', 'ต้นไม้เล็กในหน้าต่างสี', null);
     // price
     var unit = xmUnit(d.t), tot = xmPrice([{ t: d.t, qty: qty }]);
     $('perPiece').textContent = XM_TYPES[d.t] + ' ชิ้นละ ' + fmt(unit);
@@ -417,18 +458,19 @@ function xmLabel(d){const P=XM_PARTS[d.t],o=["พวงกุญแจ X'mas "+X
 
   $('minus').onclick = function () { qty = Math.max(1, qty - 1); render(); };
   $('plus').onclick = function () { qty = Math.min(XM_MAXQTY, qty + 1); render(); };
+  $('viewSw').addEventListener('click', function (e) { var b = e.target.closest('button[data-v]'); if (!b) return; view = b.dataset.v; try { localStorage.setItem('fxXmView', view); } catch (x) {} render(); });
   $('reset').onclick = function () { Object.assign(d, DEF); render(); };
   function pick() { return XM_COLORS[Math.floor(Math.random() * XM_COLORS.length)]; }
   function far(a, b) { return a !== b && Math.abs(lum(KC_HEX[a]) - lum(KC_HEX[b])) >= 0.22; }
   $('dice').onclick = function () {   // random set that still reads well: name vs tree and pattern vs frame need light/dark contrast
-    var n = 0, t, nm, f, p;
-    do { t = pick(); nm = pick(); f = pick(); p = pick(); n++; }
-    while ((!far(t, nm) || !far(f, p) || f === t || (t === d.tree && f === d.frame)) && n < 400);
-    d.tree = t; d.name = nm; d.frame = f; d.pat = p; render();
+    var n = 0, t, nm, f, p, m;
+    do { t = pick(); nm = pick(); f = pick(); p = pick(); m = pick(); n++; }
+    while ((!far(t, nm) || !far(f, p) || !far(f, m) || f === t || (t === d.tree && f === d.frame)) && n < 400);
+    d.tree = t; d.name = nm; d.frame = f; d.pat = p; d.mini = m; render();
   };
-  function picture(size) { return toCanvas(scene(d), size, '#F3ECE4'); }
+  function picture(size) { return toCanvas(scene(d, view), size, '#F3ECE4'); }   // saved picture follows the chosen view
   $('save').onclick = function () {
-    var c = picture(1000), a = document.createElement('a');
+    var c = picture(d.t === 's' && view === 'side' ? 1400 : 1000), a = document.createElement('a');
     a.download = 'fixtory-xmas-' + (XM_PARTS[d.t].indexOf('n') >= 0 ? (d.text || 'design') : 'window') + '.png'; a.href = c.toDataURL('image/png'); document.body.appendChild(a); a.click(); a.remove();
   };
   // picture for the order page's cart (same site: shared localStorage), like namepop.html / keycap.html
@@ -437,7 +479,7 @@ function xmLabel(d){const P=XM_PARTS[d.t],o=["พวงกุญแจ X'mas "+X
     try {
       var c = xmEncode(d), K = 'fxXmImgs', list = JSON.parse(localStorage.getItem(K) || '[]').filter(function (x) { return x !== c; });
       list.unshift(c); while (list.length > 30) localStorage.removeItem('fxXmImg:' + list.pop());
-      localStorage.setItem('fxXmImg:' + c, picture(360).toDataURL('image/jpeg', 0.85)); localStorage.setItem(K, JSON.stringify(list));
+      localStorage.setItem('fxXmImg:' + c, picture(d.t === 's' && view === 'side' ? 480 : 360).toDataURL('image/jpeg', 0.85)); localStorage.setItem(K, JSON.stringify(list));
     } catch (e) {}
   }, true);
 
